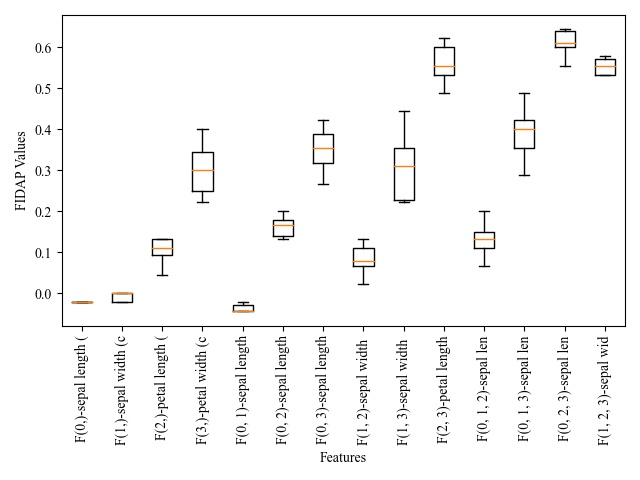
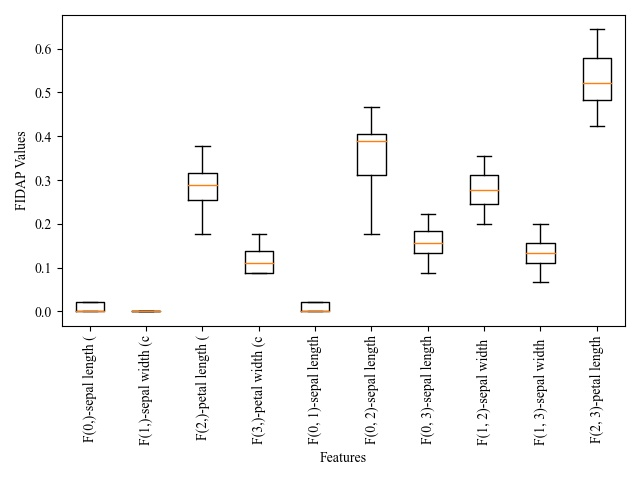
updating the example

diff --git a/examples/Classification/RF_example.py b/examples/Classification/RF_example.py
@@ -29,8 +29,8 @@ def RF_example():
 
     # Feature importance analysis
     fidap = FeatureImportanceAnalyzer(Model, X_test, y_test,
-                                    n_feature_combination = 3,
-                                    n_simulations = 10)
+                                    n_feature_combination = 2,
+                                    n_simulations = 20)
     
     fidap.run()
 
